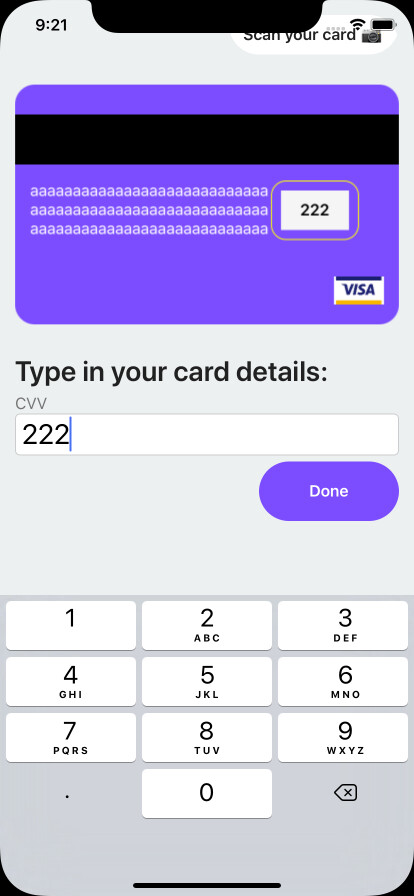
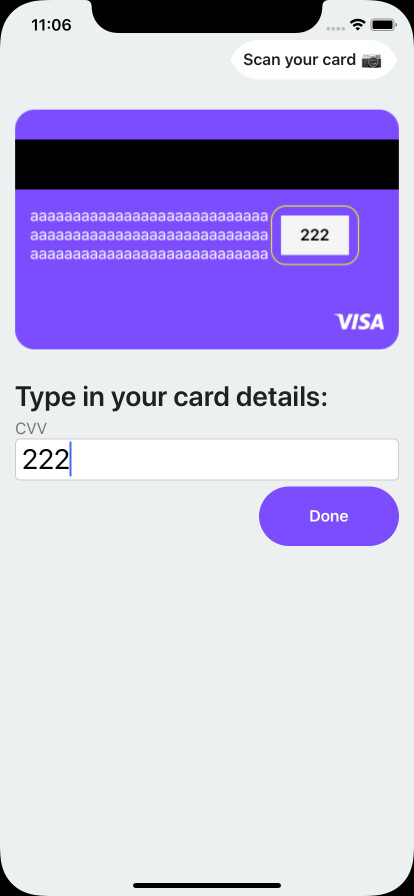
ios image change

diff --git a/XamarinUI.AddCreditCard/XamarinUI.AddCreditCard/MainPage.xaml b/XamarinUI.AddCreditCard/XamarinUI.AddCreditCard/MainPage.xaml
@@ -15,148 +15,146 @@
     </ContentPage.BindingContext>
 
     <ContentPage.Content>
-        <ScrollView BackgroundColor="{x:StaticResource background_page}">
-            <Grid Margin="15" RowSpacing="30">
-                <Grid.RowDefinitions>
-                    <RowDefinition Height="auto"/>
-                    <RowDefinition Height="auto"/>
-                    <RowDefinition Height="*"/>
+        <Grid Padding="15" RowSpacing="30" BackgroundColor="{x:StaticResource background_page}">
+            <Grid.RowDefinitions>
+                <RowDefinition Height="auto"/>
+                <RowDefinition Height="auto"/>
+                <RowDefinition Height="*"/>
 
-                </Grid.RowDefinitions>
+            </Grid.RowDefinitions>
 
-                <StackLayout Grid.Row="0">
-                    <Frame CornerRadius="30" HorizontalOptions="End" WidthRequest="150" Padding="10" BackgroundColor="White" HasShadow="False">
-                        <Label Text="Scan your card 📷" FontAttributes="Bold" HorizontalOptions="Center" TextColor="{StaticResource primary_text}"/>
-                    </Frame>
-                </StackLayout>
+            <StackLayout Grid.Row="0" Margin="0,25,0,0">
+                <Frame CornerRadius="30" HorizontalOptions="End" WidthRequest="150" Padding="10" BackgroundColor="White" HasShadow="False">
+                    <Label Text="Scan your card 📷" FontAttributes="Bold" HorizontalOptions="Center" TextColor="{StaticResource primary_text}"/>
+                </Frame>
+            </StackLayout>
 
-                <flipper:ViewFlipper Grid.Row="1" x:Name="CardInfo" FlipState="{Binding CardSimulationInfo.FlipState}">
+            <flipper:ViewFlipper Grid.Row="1" x:Name="CardInfo" FlipState="{Binding CardSimulationInfo.FlipState}">
 
 
-                    <flipper:ViewFlipper.FrontView>
-                        <!--FrontCard-->
-                        <controls:CustomCard HeightRequest="240" Padding="0">
-                            <Grid>
-                                <Grid.RowDefinitions>
-                                    <RowDefinition Height="*"/>
-                                    <RowDefinition Height="auto"/>
-                                </Grid.RowDefinitions>
+                <flipper:ViewFlipper.FrontView>
+                    <!--FrontCard-->
+                    <controls:CustomCard HeightRequest="240" Padding="0">
+                        <Grid>
+                            <Grid.RowDefinitions>
+                                <RowDefinition Height="*"/>
+                                <RowDefinition Height="auto"/>
+                            </Grid.RowDefinitions>
 
-                                <Image x:Name="imgLogoCard" Grid.Row="0" Margin="0,15,15,0" WidthRequest="70" HorizontalOptions="EndAndExpand" Source="{Binding LogoCreditCard.Source}" PropertyChanged="Image_PropertyChanged"/>
+                            <Image x:Name="imgLogoCard" Grid.Row="0" Margin="0,15,15,0" WidthRequest="70" HorizontalOptions="EndAndExpand" Source="{Binding LogoCreditCard.Source}" PropertyChanged="Image_PropertyChanged"/>
 
-                                <StackLayout Grid.Row="1">
-                                    <Frame Padding="10" Margin="5,15" BorderColor="{Binding Number.BorderSpot.BorderColor}" BackgroundColor="Transparent" CornerRadius="15" HasShadow="False">
-                                        <Label x:Name="lbNumberValue" Text="XXXX XXXX XXXX XXXX" FontSize="Title" TextColor="{StaticResource placeholder_value}"/>
-                                    </Frame>
-                                    <Grid ColumnSpacing="0">
-                                        <Grid.ColumnDefinitions>
-                                            <ColumnDefinition Width="*"/>
-                                            <ColumnDefinition Width="0.4*"/>
-                                        </Grid.ColumnDefinitions>
+                            <StackLayout Grid.Row="1">
+                                <Frame Padding="10" Margin="5,15" BorderColor="{Binding Number.BorderSpot.BorderColor}" BackgroundColor="Transparent" CornerRadius="15" HasShadow="False">
+                                    <Label x:Name="lbNumberValue" Text="XXXX XXXX XXXX XXXX" FontSize="Title" TextColor="{StaticResource placeholder_value}"/>
+                                </Frame>
+                                <Grid ColumnSpacing="0">
+                                    <Grid.ColumnDefinitions>
+                                        <ColumnDefinition Width="*"/>
+                                        <ColumnDefinition Width="0.4*"/>
+                                    </Grid.ColumnDefinitions>
 
-                                        <!--Name-->
-                                        <StackLayout Grid.Column="0" Spacing="0">
-                                            <Label Margin="15,0,0,0" Text="CARD HOLDER NAME" TextColor="{StaticResource icons}" FontSize="Micro" FontAttributes="Bold"/>
-                                            <Frame Padding="10" Margin="5,0,0,15" BorderColor="{Binding Name.BorderSpot.BorderColor}" BackgroundColor="Transparent" CornerRadius="15" HasShadow="False">
-                                                <Label x:Name="lbNameValue" Text="NAME SURNAME" FontSize="Medium" TextColor="{StaticResource placeholder_value}"/>
-                                            </Frame>
-                                        </StackLayout>
-
-                                        <!--Validated-->
-                                        <StackLayout Grid.Column="1" Spacing="0">
-                                            <Label Margin="0,0,15,0" Text="VALID THRU" TextColor="{StaticResource icons}" HorizontalOptions="End" FontSize="Micro" FontAttributes="Bold"/>
-                                            <Frame Padding="10" Margin="0,0,5,15" BorderColor="{Binding Valid.BorderSpot.BorderColor}" BackgroundColor="Transparent" CornerRadius="15" HasShadow="False">
-                                                <Label x:Name="lbValidValue" Text="MM/YY" FontSize="Medium" TextColor="{StaticResource placeholder_value}" HorizontalOptions="End"/>
-                                            </Frame>
-                                        </StackLayout>
-                                    </Grid>
-                                </StackLayout>
-
-                            </Grid>
-
-                        </controls:CustomCard>
-                    </flipper:ViewFlipper.FrontView>
-                    <flipper:ViewFlipper.BackView>
-                        <!--BackCard-->
-                        <controls:CustomCard HeightRequest="200" Padding="0,20">
-                            <Grid>
-                                <Grid.RowDefinitions>
-                                    <RowDefinition Height="*"/>
-                                    <RowDefinition Height="auto"/>
-                                </Grid.RowDefinitions>
-
-                                <StackLayout Grid.Row="0">
-                                    <StackLayout BackgroundColor="Black" HeightRequest="50" Margin="0,10"/>
-                                    <Grid ColumnSpacing="0">
-                                        <Grid.ColumnDefinitions>
-                                            <ColumnDefinition Width="*"/>
-                                            <ColumnDefinition Width="0.5*"/>
-                                        </Grid.ColumnDefinitions>
-                                        <Label Grid.Column="0" Margin="15,0,0,0" Text="aaaaaaaaaaaaaaaaaaaaaaaaaaaaaaaaaaaaaaaaaaaaaaaaaaaaaaaaaaaaaaaaaaaaaaaaaaaaaaaaaaaaaaaaaaaaaaaaaa" MaxLines="3" TextColor="{StaticResource icons}"/>
-                                        <Frame Grid.Column="1" Padding="10" BorderColor="{Binding Cvv.BorderSpot.BorderColor}" BackgroundColor="Transparent" CornerRadius="15" Margin="0,0,40,0" HasShadow="False">
-                                            <StackLayout Padding="10" BackgroundColor="WhiteSmoke">
-                                                <Label x:Name="lbCvvValue" Text="CVV" FontAttributes="Bold" HorizontalOptions="CenterAndExpand" VerticalOptions="CenterAndExpand"/>
-                                            </StackLayout>
+                                    <!--Name-->
+                                    <StackLayout Grid.Column="0" Spacing="0">
+                                        <Label Margin="15,0,0,0" Text="CARD HOLDER NAME" TextColor="{StaticResource icons}" FontSize="Micro" FontAttributes="Bold"/>
+                                        <Frame Padding="10" Margin="5,0,0,15" BorderColor="{Binding Name.BorderSpot.BorderColor}" BackgroundColor="Transparent" CornerRadius="15" HasShadow="False">
+                                            <Label x:Name="lbNameValue" Text="NAME SURNAME" FontSize="Medium" TextColor="{StaticResource placeholder_value}"/>
                                         </Frame>
-                                    </Grid>
-                                </StackLayout>
-                                <Image Grid.Row="1" Margin="0,0,15,0" WidthRequest="50" HorizontalOptions="EndAndExpand" Source="{Binding LogoCreditCard.Source}"/>
+                                    </StackLayout>
 
-                            </Grid>
+                                    <!--Validated-->
+                                    <StackLayout Grid.Column="1" Spacing="0">
+                                        <Label Margin="0,0,15,0" Text="VALID THRU" TextColor="{StaticResource icons}" HorizontalOptions="End" FontSize="Micro" FontAttributes="Bold"/>
+                                        <Frame Padding="10" Margin="0,0,5,15" BorderColor="{Binding Valid.BorderSpot.BorderColor}" BackgroundColor="Transparent" CornerRadius="15" HasShadow="False">
+                                            <Label x:Name="lbValidValue" Text="MM/YY" FontSize="Medium" TextColor="{StaticResource placeholder_value}" HorizontalOptions="End"/>
+                                        </Frame>
+                                    </StackLayout>
+                                </Grid>
+                            </StackLayout>
 
-                        </controls:CustomCard>
-                    </flipper:ViewFlipper.BackView>
-                </flipper:ViewFlipper>
+                        </Grid>
 
-                <StackLayout Grid.Row="2">
-                    <Label Text="Type in your card details: " FontAttributes="Bold" FontSize="Title" TextColor="{StaticResource primary_text}"/>
+                    </controls:CustomCard>
+                </flipper:ViewFlipper.FrontView>
+                <flipper:ViewFlipper.BackView>
+                    <!--BackCard-->
+                    <controls:CustomCard HeightRequest="200" Padding="0,20">
+                        <Grid>
+                            <Grid.RowDefinitions>
+                                <RowDefinition Height="*"/>
+                                <RowDefinition Height="auto"/>
+                            </Grid.RowDefinitions>
 
-                    <!--Card Number-->
-                    <StackLayout IsVisible="{Binding Number.Panel.IsVisible}" PropertyChanged="StackLayout_PropertyChanged" Spacing="0">
-                        <Label Text="Card Number" TextColor="{StaticResource secondary_text}"/>
-                        <Entry x:Name="entryNumber" Text="{Binding Number.Entry.Text}" Keyboard="Numeric" TextChanged="Entry_TextChanged" FontSize="Title" ReturnType="Next" ReturnCommand="{Binding NextCommand}">
-                            <Entry.Behaviors>
-                                <behavior:MaskedBehavior Mask="XXXX XXXX XXXX XXXX" />
-                            </Entry.Behaviors>
-                        </Entry>
-                        <Label IsVisible="{Binding Number.ErrorMsg.IsVisible}" Text="{Binding Number.ErrorMsg.Text}" TextColor="Red"/>
-                    </StackLayout>
+                            <StackLayout Grid.Row="0">
+                                <StackLayout BackgroundColor="Black" HeightRequest="50" Margin="0,10"/>
+                                <Grid ColumnSpacing="0">
+                                    <Grid.ColumnDefinitions>
+                                        <ColumnDefinition Width="*"/>
+                                        <ColumnDefinition Width="0.5*"/>
+                                    </Grid.ColumnDefinitions>
+                                    <Label Grid.Column="0" Margin="15,0,0,0" Text="aaaaaaaaaaaaaaaaaaaaaaaaaaaaaaaaaaaaaaaaaaaaaaaaaaaaaaaaaaaaaaaaaaaaaaaaaaaaaaaaaaaaaaaaaaaaaaaaaa" MaxLines="3" TextColor="{StaticResource icons}"/>
+                                    <Frame Grid.Column="1" Padding="10" BorderColor="{Binding Cvv.BorderSpot.BorderColor}" BackgroundColor="Transparent" CornerRadius="15" Margin="0,0,40,0" HasShadow="False">
+                                        <StackLayout Padding="10" BackgroundColor="WhiteSmoke">
+                                            <Label x:Name="lbCvvValue" Text="CVV" FontAttributes="Bold" HorizontalOptions="CenterAndExpand" VerticalOptions="CenterAndExpand"/>
+                                        </StackLayout>
+                                    </Frame>
+                                </Grid>
+                            </StackLayout>
+                            <Image Grid.Row="1" Margin="0,0,15,0" WidthRequest="50" HorizontalOptions="EndAndExpand" Source="{Binding LogoCreditCard.Source}"/>
 
-                    <!--Card Holder Name-->
-                    <StackLayout IsVisible="{Binding Name.Panel.IsVisible}" PropertyChanged="StackLayout_PropertyChanged_1" Spacing="0">
-                        <Label Text="Card Holder Name" TextColor="{StaticResource secondary_text}"/>
-                        <Entry x:Name="entryName" Text="{Binding Name.Entry.Text}" FontSize="Title" TextChanged="Entry_TextChanged_1" MaxLength="18" ReturnType="Next" ReturnCommand="{Binding NextCommand}" />
-                        <Label IsVisible="{Binding Name.ErrorMsg.IsVisible}" Text="{Binding Name.ErrorMsg.Text}" TextColor="Red"/>
-                    </StackLayout>
+                        </Grid>
 
-                    <!--Valid-->
-                    <StackLayout IsVisible="{Binding Valid.Panel.IsVisible}" PropertyChanged="StackLayout_PropertyChanged_2" Spacing="0">
-                        <Label Text="Valid Thru" TextColor="{StaticResource secondary_text}"/>
-                        <Entry x:Name="entryValid" Text="{Binding Valid.Entry.Text}" Keyboard="Numeric" FontSize="Title" TextChanged="Entry_TextChanged_2" ReturnType="Next" ReturnCommand="{Binding NextCommand}">
-                            <Entry.Behaviors>
-                                <behavior:MaskedBehavior Mask="XX/XX" />
-                            </Entry.Behaviors>
-                        </Entry>
-                        <Label IsVisible="{Binding Valid.ErrorMsg.IsVisible}" Text="{Binding Valid.ErrorMsg.Text}" TextColor="Red"/>
-                    </StackLayout>
+                    </controls:CustomCard>
+                </flipper:ViewFlipper.BackView>
+            </flipper:ViewFlipper>
 
-                    <!--CCV-->
-                    <StackLayout IsVisible="{Binding Cvv.Panel.IsVisible}" PropertyChanged="StackLayout_PropertyChanged_3" Spacing="0">
-                        <Label Text="CVV" TextColor="{StaticResource secondary_text}"/>
-                        <Entry x:Name="entryCvv" Text="{Binding Cvv.Entry.Text}" Keyboard="Numeric" FontSize="Title" TextChanged="Entry_TextChanged_3" MaxLength="4" ReturnType="Next" ReturnCommand="{Binding NextCommand}" />
-                        <Label IsVisible="{Binding Cvv.ErrorMsg.IsVisible}" Text="{Binding Cvv.ErrorMsg.Text}" TextColor="Red"/>
-                    </StackLayout>
+            <StackLayout Grid.Row="2">
+                <Label Text="Type in your card details: " FontAttributes="Bold" FontSize="Title" TextColor="{StaticResource primary_text}"/>
 
-                    <Frame CornerRadius="30" HorizontalOptions="End" BackgroundColor="{StaticResource accent}" WidthRequest="100" HasShadow="False">
-                        <Frame.GestureRecognizers>
-                            <TapGestureRecognizer Command="{Binding NextCommand}"/>
-                        </Frame.GestureRecognizers>
-                        <Label Text="{Binding ButtonText.Text}" FontAttributes="Bold" FontSize="Medium" TextColor="{StaticResource icons}" HorizontalOptions="Center" />
-                    </Frame>
-
+                <!--Card Number-->
+                <StackLayout IsVisible="{Binding Number.Panel.IsVisible}" PropertyChanged="StackLayout_PropertyChanged" Spacing="0">
+                    <Label Text="Card Number" TextColor="{StaticResource secondary_text}"/>
+                    <Entry x:Name="entryNumber" Text="{Binding Number.Entry.Text}" Keyboard="Numeric" TextChanged="Entry_TextChanged" FontSize="Title" ReturnType="Next" ReturnCommand="{Binding NextCommand}">
+                        <Entry.Behaviors>
+                            <behavior:MaskedBehavior Mask="XXXX XXXX XXXX XXXX" />
+                        </Entry.Behaviors>
+                    </Entry>
+                    <Label IsVisible="{Binding Number.ErrorMsg.IsVisible}" Text="{Binding Number.ErrorMsg.Text}" TextColor="Red"/>
                 </StackLayout>
-            </Grid>
-        </ScrollView>
+
+                <!--Card Holder Name-->
+                <StackLayout IsVisible="{Binding Name.Panel.IsVisible}" PropertyChanged="StackLayout_PropertyChanged_1" Spacing="0">
+                    <Label Text="Card Holder Name" TextColor="{StaticResource secondary_text}"/>
+                    <Entry x:Name="entryName" Text="{Binding Name.Entry.Text}" FontSize="Title" TextChanged="Entry_TextChanged_1" MaxLength="18" ReturnType="Next" ReturnCommand="{Binding NextCommand}" />
+                    <Label IsVisible="{Binding Name.ErrorMsg.IsVisible}" Text="{Binding Name.ErrorMsg.Text}" TextColor="Red"/>
+                </StackLayout>
+
+                <!--Valid-->
+                <StackLayout IsVisible="{Binding Valid.Panel.IsVisible}" PropertyChanged="StackLayout_PropertyChanged_2" Spacing="0">
+                    <Label Text="Valid Thru" TextColor="{StaticResource secondary_text}"/>
+                    <Entry x:Name="entryValid" Text="{Binding Valid.Entry.Text}" Keyboard="Numeric" FontSize="Title" TextChanged="Entry_TextChanged_2" ReturnType="Next" ReturnCommand="{Binding NextCommand}">
+                        <Entry.Behaviors>
+                            <behavior:MaskedBehavior Mask="XX/XX" />
+                        </Entry.Behaviors>
+                    </Entry>
+                    <Label IsVisible="{Binding Valid.ErrorMsg.IsVisible}" Text="{Binding Valid.ErrorMsg.Text}" TextColor="Red"/>
+                </StackLayout>
+
+                <!--CCV-->
+                <StackLayout IsVisible="{Binding Cvv.Panel.IsVisible}" PropertyChanged="StackLayout_PropertyChanged_3" Spacing="0">
+                    <Label Text="CVV" TextColor="{StaticResource secondary_text}"/>
+                    <Entry x:Name="entryCvv" Text="{Binding Cvv.Entry.Text}" Keyboard="Numeric" FontSize="Title" TextChanged="Entry_TextChanged_3" MaxLength="4" ReturnType="Next" ReturnCommand="{Binding NextCommand}" />
+                    <Label IsVisible="{Binding Cvv.ErrorMsg.IsVisible}" Text="{Binding Cvv.ErrorMsg.Text}" TextColor="Red"/>
+                </StackLayout>
+
+                <Frame CornerRadius="30" HorizontalOptions="End" BackgroundColor="{StaticResource accent}" WidthRequest="100" HasShadow="False">
+                    <Frame.GestureRecognizers>
+                        <TapGestureRecognizer Command="{Binding NextCommand}"/>
+                    </Frame.GestureRecognizers>
+                    <Label Text="{Binding ButtonText.Text}" FontAttributes="Bold" FontSize="Medium" TextColor="{StaticResource icons}" HorizontalOptions="Center" />
+                </Frame>
+
+            </StackLayout>
+        </Grid>
     </ContentPage.Content>
 
 </ContentPage>
